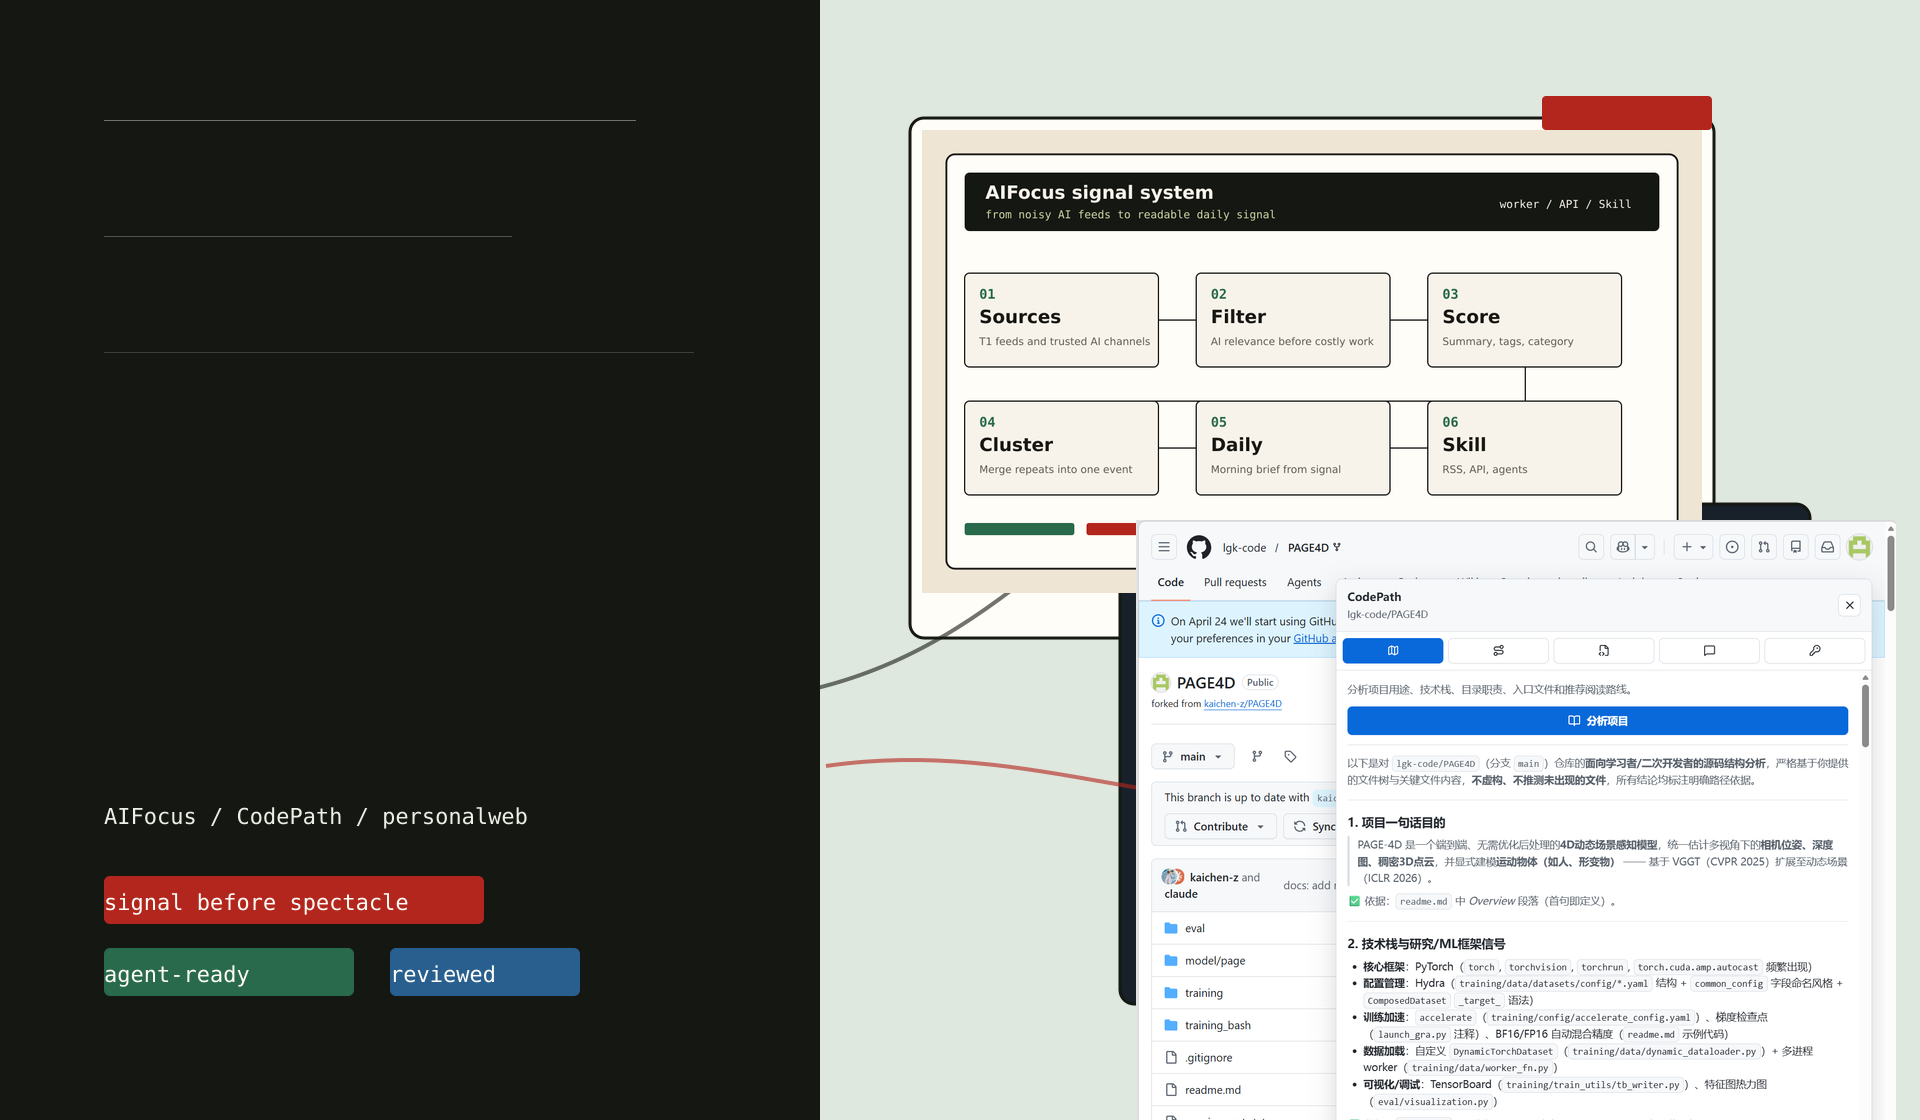
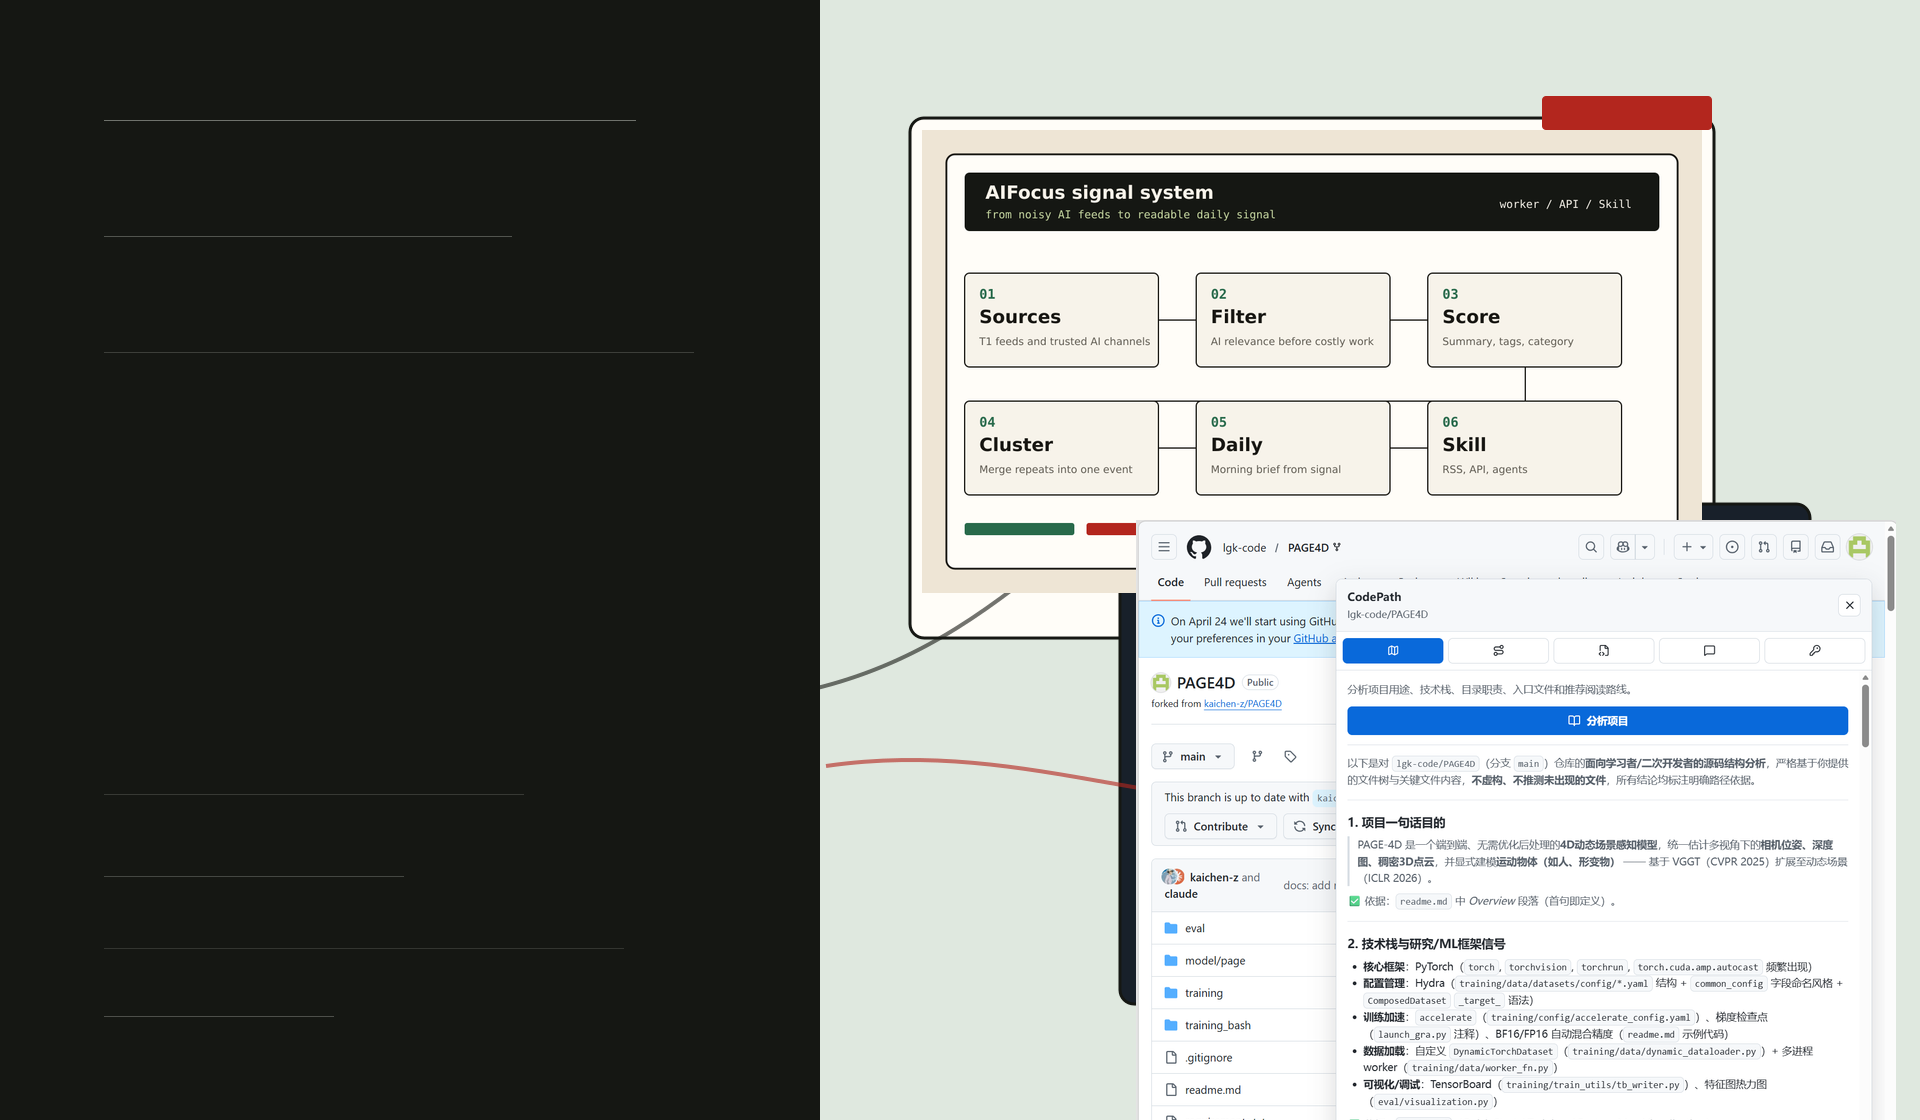
fix: address midreview visual risks

Changed region(s): [[0.0312, 0.7812, 0.3125, 0.9062], [0.125, 0.7188, 0.2812, 0.75], [0.0625, 0.7188, 0.0938, 0.75]]

diff --git a/src/lib/portfolio.ts b/src/lib/portfolio.ts
@@ -18,9 +18,9 @@ export const portfolio = {
       "我把信息筛选、代码阅读和 agent 工作流做成可运行的产品：先保护注意力，再放大判断力。",
   },
   heroProofPoints: [
-    "把 AI 信息过载压缩成精选、日报、RSS、API 和 Skill",
-    "把 GitHub 仓库阅读变成侧边栏里的项目理解路径",
-    "习惯用真实构建、真实截图和多角色评审收尾",
+    "AIFocus 把 AI 信息过载压缩成精选、日报、RSS、API 和 Skill",
+    "CodePath 把 GitHub 仓库阅读变成侧边栏里的项目理解路径",
+    "personalweb 用真实构建、公开截图和多角色评审收尾",
   ],
   projects: [
     {
@@ -60,6 +60,7 @@ export const portfolio = {
     "用工程化验证把 vibe 变成可复现质量",
     "让 agent、工具和人各做自己最擅长的部分",
   ],
+  contactHeading: "看公开代码与 release；如果方向对味，就从一个具体系统聊起。",
   evidenceChains: [
     {
       label: "AIFocus",

diff --git a/src/app/page.tsx b/src/app/page.tsx
@@ -110,7 +110,7 @@ export default function Home() {
     <main>
       <StructuredData />
       <a className="skip-link" href="#projects">
-        Skip to projects
+        跳到项目
       </a>
       <section className="hero-section">
         <div className="hero-media" aria-hidden="true">
@@ -193,7 +193,7 @@ export default function Home() {
       <section className="contact-section" id="contact">
         <div className="section-shell contact-layout">
           <p className="section-kicker">Next build</p>
-          <h2>接下来会把这个站点继续打磨到能经受截图、代码和多角色评审。</h2>
+          <h2>{portfolio.contactHeading}</h2>
           <div className="contact-actions">
             <a href={site.profileUrl}>GitHub</a>
             {codePathReleaseLink ? (